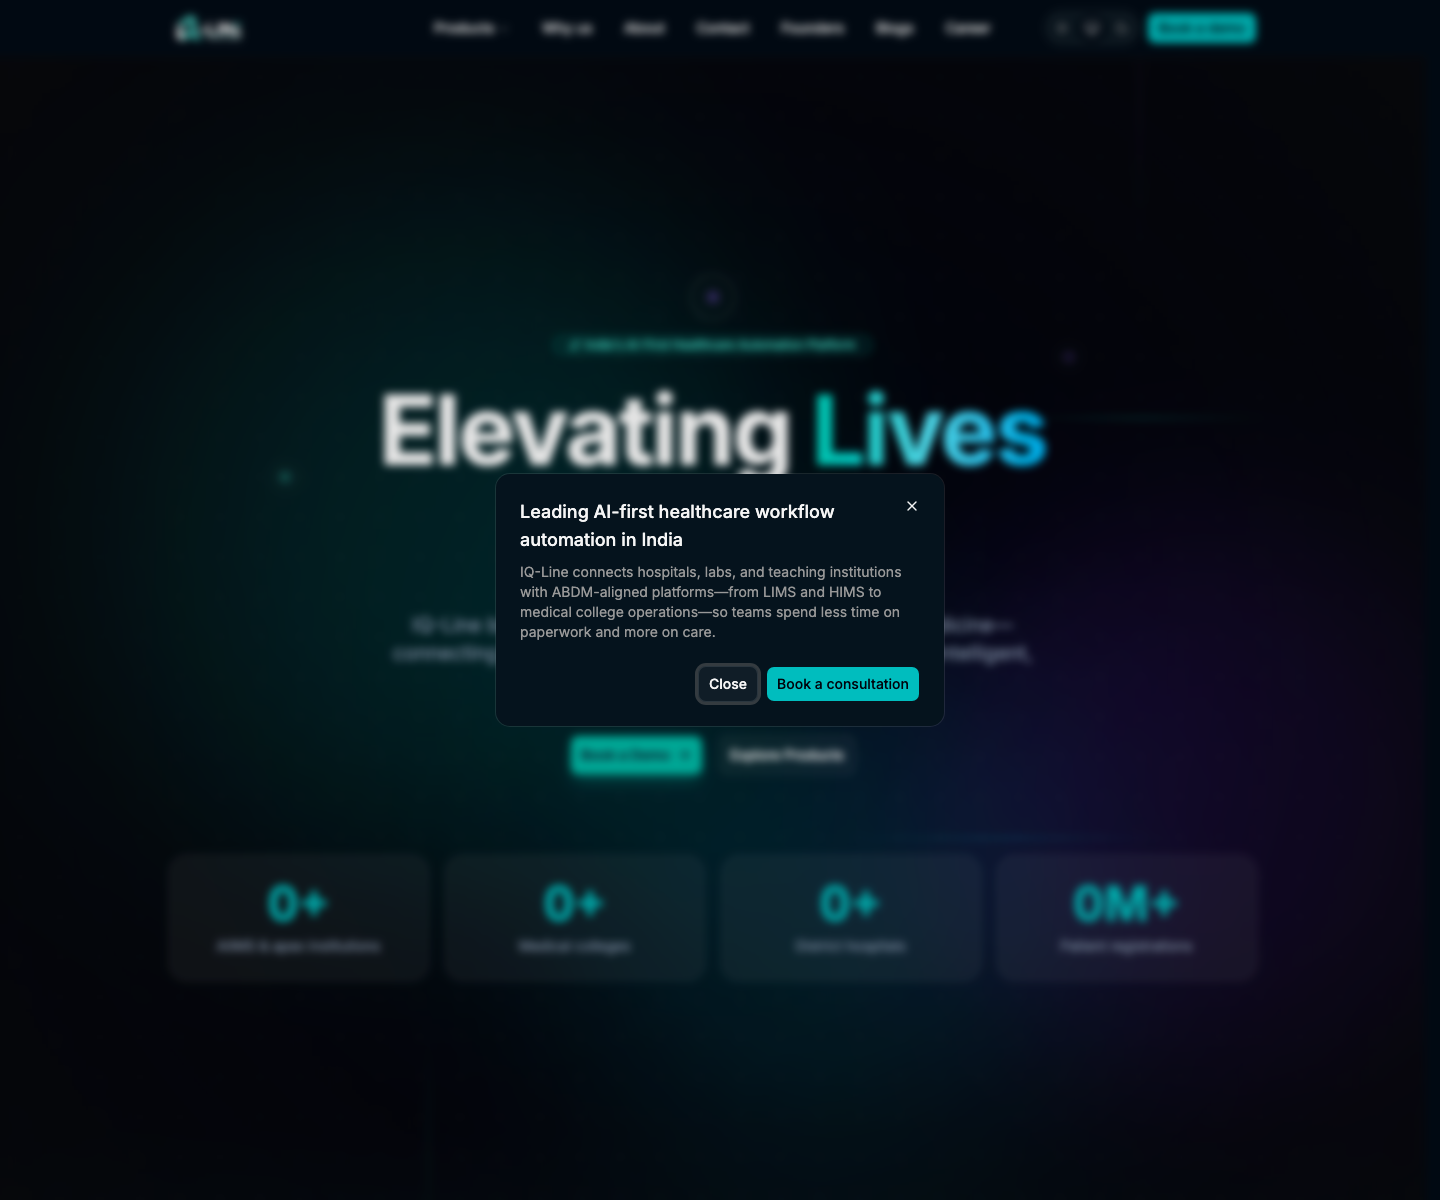
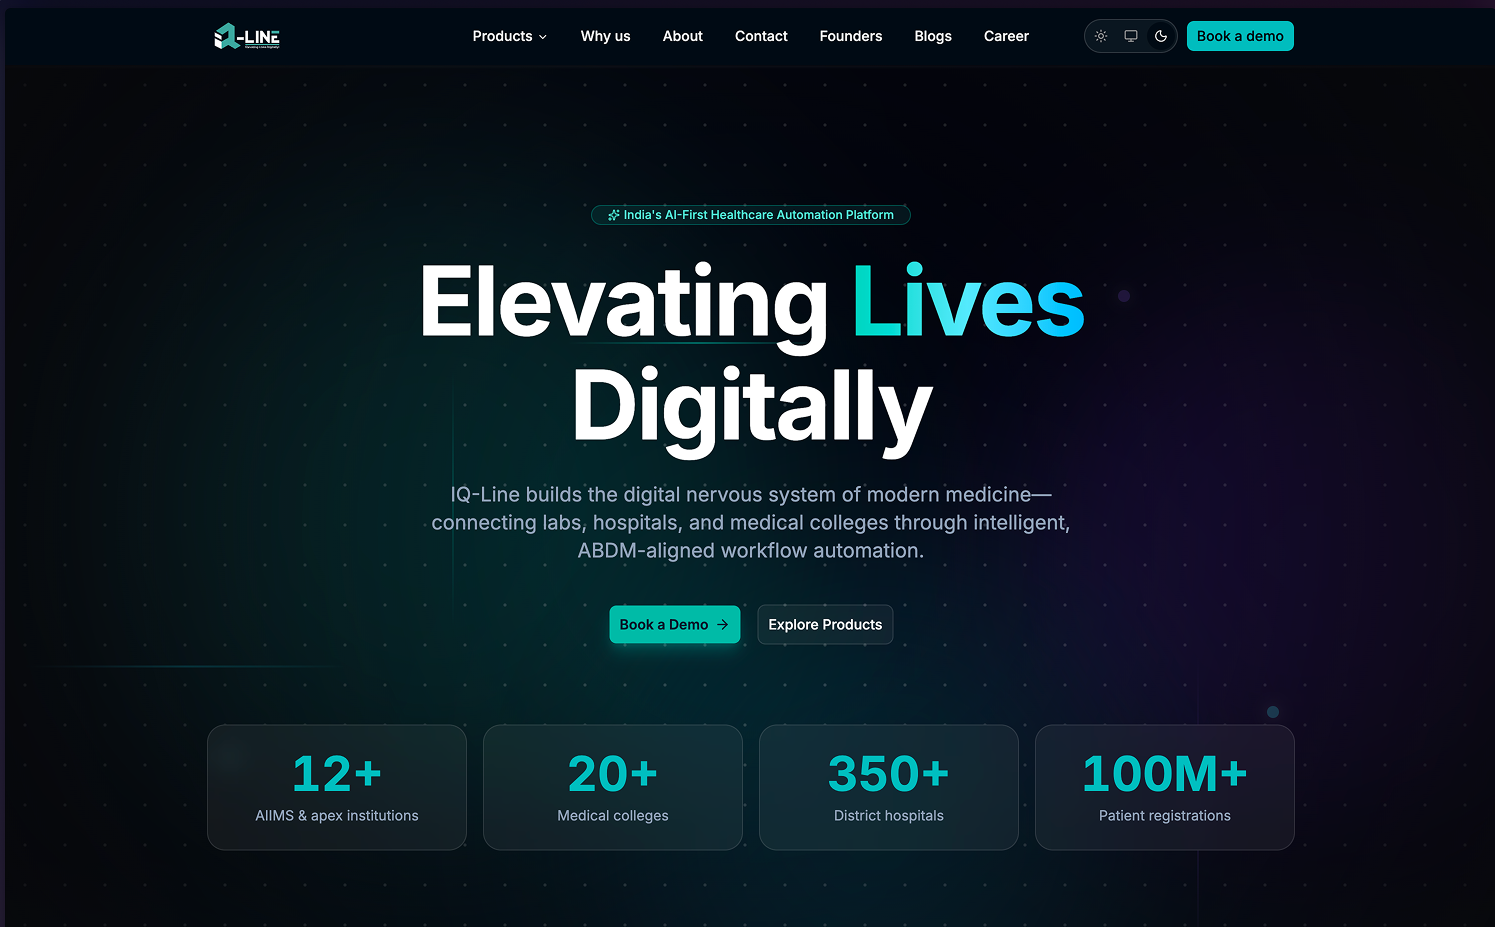
feat: expand IQHealth/STMS case studies with diagrams and charts, fix chart dark mode
- iqhealth.mdx: reframe origin (HIMS/LIMS/RIS unified into IQHealth) and wire new architecture, app communication, data flow, visit registration, and samples-with-tray images; add design system and module-redesign-coverage charts
- sample-transport-system.mdx: add shipments dashboard and samples-with-tray screenshots; add status distribution and TAT charts
- charts: fix invalid hsl(var(--chart-X)) wrapping that made bars/areas invisible in dark mode; switch tooltip, grid, and axis ticks to design tokens
- markdown: add optional thumbnail field to ProjectMetadata; ProjectCard/ProjectFeatureCard prefer thumbnail over projectImage
- new ProjectChart MDX component wrapping bar/area charts with title and caption
- swap Meducampus and IQLine website revamp imagery to refreshed shots

diff --git a/src/components/charts/AreaChart.tsx b/src/components/charts/AreaChart.tsx
@@ -14,7 +14,7 @@ interface AreaChartProps {
   color?: string;
 }
 
-export function AreaChart({ data, dataKey, color = "hsl(var(--chart-1))" }: AreaChartProps) {
+export function AreaChart({ data, dataKey, color = "var(--chart-1)" }: AreaChartProps) {
   return (
     <ResponsiveContainer width="100%" height="100%">
       <RechartsAreaChart data={data} margin={{ top: 10, right: 10, left: 0, bottom: 0 }}>
@@ -24,21 +24,30 @@ export function AreaChart({ data, dataKey, color = "hsl(var(--chart-1))" }: Area
             <stop offset="95%" stopColor={color} stopOpacity={0} />
           </linearGradient>
         </defs>
-        <CartesianGrid strokeDasharray="3 3" className="stroke-muted" />
+        <CartesianGrid strokeDasharray="3 3" stroke="var(--border)" />
         <XAxis
           dataKey="name"
-          className="text-xs"
+          tick={{ fill: "var(--muted-foreground)", fontSize: 12 }}
           tickLine={false}
           axisLine={false}
           tickMargin={8}
         />
-        <YAxis className="text-xs" tickLine={false} axisLine={false} tickMargin={8} />
+        <YAxis
+          tick={{ fill: "var(--muted-foreground)", fontSize: 12 }}
+          tickLine={false}
+          axisLine={false}
+          tickMargin={8}
+        />
         <Tooltip
+          cursor={{ stroke: "var(--muted-foreground)", strokeOpacity: 0.4 }}
           contentStyle={{
-            backgroundColor: "hsl(var(--popover))",
-            border: "1px solid hsl(var(--border))",
+            backgroundColor: "var(--popover)",
+            color: "var(--popover-foreground)",
+            border: "1px solid var(--border)",
             borderRadius: "calc(var(--radius) - 2px)",
           }}
+          labelStyle={{ color: "var(--popover-foreground)" }}
+          itemStyle={{ color: "var(--popover-foreground)" }}
         />
         <Area
           type="monotone"

diff --git a/src/components/charts/BarChart.tsx b/src/components/charts/BarChart.tsx
@@ -14,25 +14,34 @@ interface BarChartProps {
   color?: string;
 }
 
-export function BarChart({ data, dataKey, color = "hsl(var(--chart-2))" }: BarChartProps) {
+export function BarChart({ data, dataKey, color = "var(--chart-2)" }: BarChartProps) {
   return (
     <ResponsiveContainer width="100%" height="100%">
       <RechartsBarChart data={data} margin={{ top: 10, right: 10, left: 0, bottom: 0 }}>
-        <CartesianGrid strokeDasharray="3 3" className="stroke-muted" />
+        <CartesianGrid strokeDasharray="3 3" stroke="var(--border)" />
         <XAxis
           dataKey="name"
-          className="text-xs"
+          tick={{ fill: "var(--muted-foreground)", fontSize: 12 }}
           tickLine={false}
           axisLine={false}
           tickMargin={8}
         />
-        <YAxis className="text-xs" tickLine={false} axisLine={false} tickMargin={8} />
+        <YAxis
+          tick={{ fill: "var(--muted-foreground)", fontSize: 12 }}
+          tickLine={false}
+          axisLine={false}
+          tickMargin={8}
+        />
         <Tooltip
+          cursor={{ fill: "var(--muted)", opacity: 0.3 }}
           contentStyle={{
-            backgroundColor: "hsl(var(--popover))",
-            border: "1px solid hsl(var(--border))",
+            backgroundColor: "var(--popover)",
+            color: "var(--popover-foreground)",
+            border: "1px solid var(--border)",
             borderRadius: "calc(var(--radius) - 2px)",
           }}
+          labelStyle={{ color: "var(--popover-foreground)" }}
+          itemStyle={{ color: "var(--popover-foreground)" }}
         />
         <Bar dataKey={dataKey} fill={color} radius={[4, 4, 0, 0]} />
       </RechartsBarChart>

diff --git a/src/components/projects/ProjectFeatureCard.tsx b/src/components/projects/ProjectFeatureCard.tsx
@@ -24,6 +24,7 @@ export function ProjectFeatureCard({ project, reverse = false }: ProjectFeatureC
     "from-amber-500/60 via-yellow-500/60 to-orange-500/60",
   ];
   const gradient = gradientColors[project.id.charCodeAt(0) % gradientColors.length];
+  const thumbnailSrc = project.thumbnail || project.projectImage;
 
   return (
     <div className="group grid gap-8 md:grid-cols-2 items-center relative">
@@ -34,11 +35,11 @@ export function ProjectFeatureCard({ project, reverse = false }: ProjectFeatureC
           {project.featured && (
             <Badge variant="secondary" className="absolute top-4 right-4 z-10 bg-background/90 backdrop-blur-sm shadow-sm">Featured</Badge>
           )}
-          {project.projectImage ? (
+          {thumbnailSrc ? (
             <>
               {!imgLoaded && <Skeleton className="absolute inset-0 rounded-none" />}
               <img
-                src={project.projectImage}
+                src={thumbnailSrc}
                 alt={project.title}
                 onLoad={() => setImgLoaded(true)}
                 className={cn("h-full w-full object-cover transition-transform duration-500 group-hover:scale-105", !imgLoaded && "opacity-0")}

diff --git a/src/components/markdown/ProjectChart.tsx b/src/components/markdown/ProjectChart.tsx
@@ -1,0 +1,44 @@
+import { BarChart } from "@/components/charts/BarChart";
+import { AreaChart } from "@/components/charts/AreaChart";
+
+type ChartDatum = { name: string; value: number };
+
+interface ProjectChartProps {
+  type?: "bar" | "area";
+  title?: string;
+  caption?: string;
+  data: ChartDatum[];
+  dataKey?: string;
+  color?: string;
+  height?: number;
+}
+
+export function ProjectChart({
+  type = "bar",
+  title,
+  caption,
+  data,
+  dataKey = "value",
+  color,
+  height = 280,
+}: ProjectChartProps) {
+  return (
+    <figure className="my-8 rounded-xl border border-border bg-muted/20 p-4 sm:p-6">
+      {title && (
+        <figcaption className="mb-1 text-sm font-semibold text-foreground">
+          {title}
+        </figcaption>
+      )}
+      {caption && (
+        <p className="mb-4 text-xs text-muted-foreground">{caption}</p>
+      )}
+      <div style={{ height }} className="w-full">
+        {type === "area" ? (
+          <AreaChart data={data} dataKey={dataKey} color={color} />
+        ) : (
+          <BarChart data={data} dataKey={dataKey} color={color} />
+        )}
+      </div>
+    </figure>
+  );
+}

diff --git a/src/components/projects/ProjectCard.tsx b/src/components/projects/ProjectCard.tsx
@@ -39,6 +39,7 @@ export function ProjectCard({ project }: ProjectCardProps) {
     "from-amber-500/60 via-yellow-500/60 to-orange-500/60",
   ];
   const gradient = gradientColors[project.id.charCodeAt(0) % gradientColors.length];
+  const thumbnailSrc = project.thumbnail || project.projectImage;
 
   return (
     <Link to={`/project/${project.id}`} className="block h-full group">
@@ -47,11 +48,11 @@ export function ProjectCard({ project }: ProjectCardProps) {
           {project.featured && (
             <Badge variant="secondary" className="absolute top-3 right-3 z-10 bg-background/90 backdrop-blur-sm shadow-sm">Featured</Badge>
           )}
-          {project.projectImage ? (
+          {thumbnailSrc ? (
             <>
               {!imgLoaded && <Skeleton className="absolute inset-0 rounded-none" />}
               <img
-                src={project.projectImage}
+                src={thumbnailSrc}
                 alt={project.title}
                 onLoad={() => setImgLoaded(true)}
                 className={cn("h-full w-full object-cover transition-transform duration-500 group-hover:scale-105", !imgLoaded && "opacity-0")}

diff --git a/src/pages/Home.tsx b/src/pages/Home.tsx
@@ -12,6 +12,7 @@ import { Hobbies } from "@/components/sections/Hobbies";
 import { Blogs } from "@/components/sections/Blogs";
 import { ToolsStrip } from "@/components/sections/ToolsStrip";
 import { FloatingDock } from "@/components/ui/floating-dock";
+import { useLocation } from "react-router-dom";
 import {
   Home as HomeIcon, FolderKanban, User, Mail, BookOpen,
   Share2, MessageSquare, Award, Briefcase, Gamepad2,
@@ -33,7 +34,12 @@ const DOCK_ITEMS = [
 ];
 
 export function Home() {
-  const [activeSection, setActiveSection] = useState<string>("home");
+  const location = useLocation();
+  const searchParams = new URLSearchParams(location.search);
+  const initialSection = searchParams.get("section") || location.hash.replace("#", "");
+  const defaultSection = DOCK_ITEMS.some(item => item.id === initialSection) ? initialSection : "home";
+
+  const [activeSection, setActiveSection] = useState<string>(defaultSection);
   const projectsRef = useRef<HTMLDivElement>(null);
   const aboutRef = useRef<HTMLDivElement>(null);
   const experienceRef = useRef<HTMLDivElement>(null);

diff --git a/src/lib/markdown.ts b/src/lib/markdown.ts
@@ -4,6 +4,11 @@ export interface ProjectMetadata {
   addedOn: string;
   projectImage: string;
   projectOldImage?: string;
+  /**
+   * Optional thumbnail used by project list/cards.
+   * Falls back to projectImage when not set.
+   */
+  thumbnail?: string;
   description: string;
   techStack: string[];
   category: string;
@@ -39,14 +44,14 @@ export function loadProjects(): Project[] {
   const rawModules = import.meta.glob("/src/content/projects/*.mdx", { 
     eager: true,
     query: "?raw",
-    import: "default"
   });
 
   const projects: Project[] = [];
 
   for (const path in modules) {
     const module = modules[path] as any;
-    const rawContent = rawModules[path] as string;
+    const rawModule = rawModules[path] as any;
+    const rawContent = rawModule ? rawModule.default : "";
     
     // Check if module has frontmatter
     if (!module.frontmatter) {

diff --git a/src/components/layout/SectionOverview.tsx b/src/components/layout/SectionOverview.tsx
@@ -75,7 +75,7 @@ export function SectionOverview({ content }: SectionOverviewProps) {
   }
 
   return (
-    <aside className="fixed top-[73px] right-0 h-[calc(100vh-73px)] w-64 bg-background border-l hidden xl:block">
+    <aside className="fixed top-[73px] right-0 h-[calc(100vh-73px)] w-64 bg-background border-l hidden lg:block">
       <div className="p-6 h-full overflow-hidden flex flex-col">
         <div className="space-y-2 flex-1 overflow-hidden">
           <div className="text-xs font-semibold text-muted-foreground uppercase tracking-wider px-2 mb-4">

diff --git a/src/components/layout/ProjectHeader.tsx b/src/components/layout/ProjectHeader.tsx
@@ -5,7 +5,7 @@ import { ArrowLeft } from "lucide-react";
 export function ProjectHeader() {
   const location = useLocation();
   // If we're on a project detail page, go back to projects list, otherwise go to home
-  const backTo = location.pathname.startsWith("/project/") ? "/projects" : "/";
+  const backTo = location.pathname.startsWith("/project/") ? "/?section=projects" : "/";
 
   return (
     <header className="sticky top-0 z-50 w-full border-b bg-background/95 backdrop-blur supports-[backdrop-filter]:bg-background/60">

diff --git a/src/components/markdown/MarkdownContent.tsx b/src/components/markdown/MarkdownContent.tsx
@@ -1,5 +1,6 @@
 import { slugify } from "@/lib/markdown-headings";
 import { ProcessPhase } from "@/components/markdown/ProcessPhase";
+import { ProjectChart } from "@/components/markdown/ProjectChart";
 import { Compare } from "@/components/ui/compare";
 
 function CompareImgs({
@@ -31,6 +32,7 @@ function CompareImgs({
 
 export const mdxComponents: any = {
   ProcessPhase,
+  ProjectChart,
   CompareImgs,
   h1: ({ node, children, ...props }: any) => {
     const text = String(children);

diff --git a/src/pages/ProjectDetail.tsx b/src/pages/ProjectDetail.tsx
@@ -73,7 +73,7 @@ export function ProjectDetail() {
         <ProjectSidebar currentProjectId={project.id} />
 
         {/* Main Content */}
-        <main className="flex-1 min-w-0 ml-0 lg:ml-64 xl:mr-64">
+        <main className="flex-1 min-w-0 ml-0 lg:ml-64 lg:mr-64">
           <div className="mx-auto max-w-4xl px-6 py-8">
             {/* Header */}
             <MotionDiv animation="slideUp" trigger="mount" className="mb-8">
